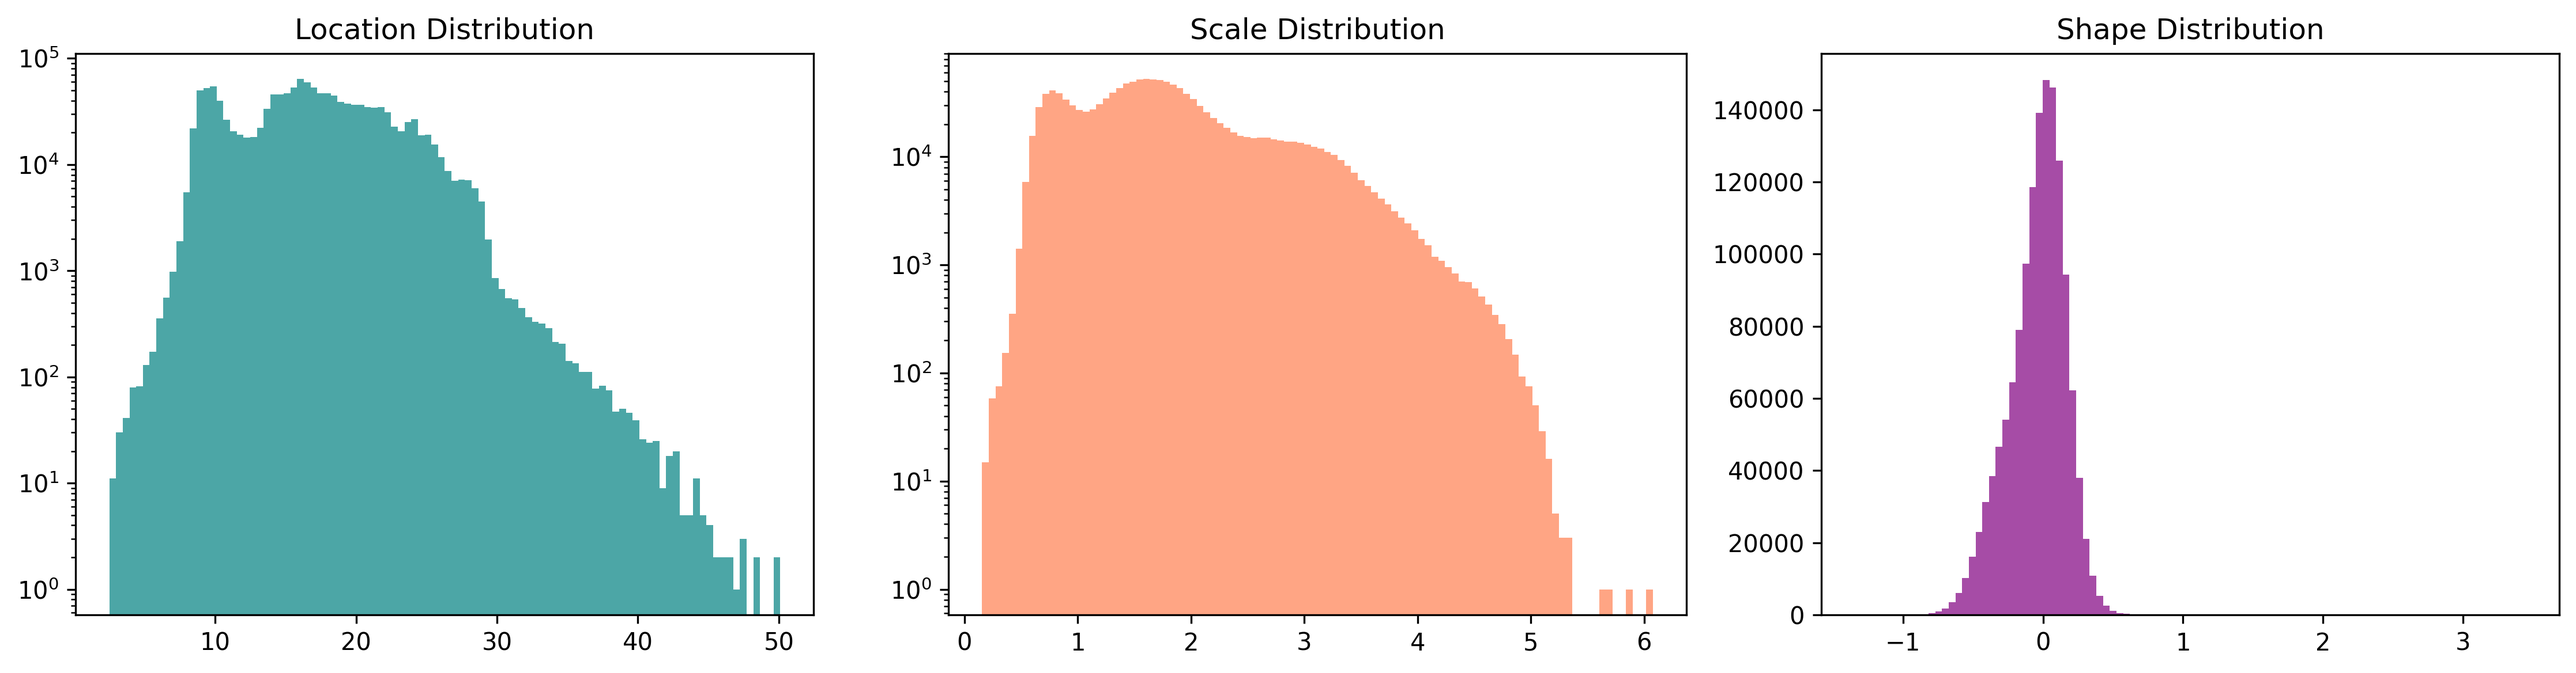
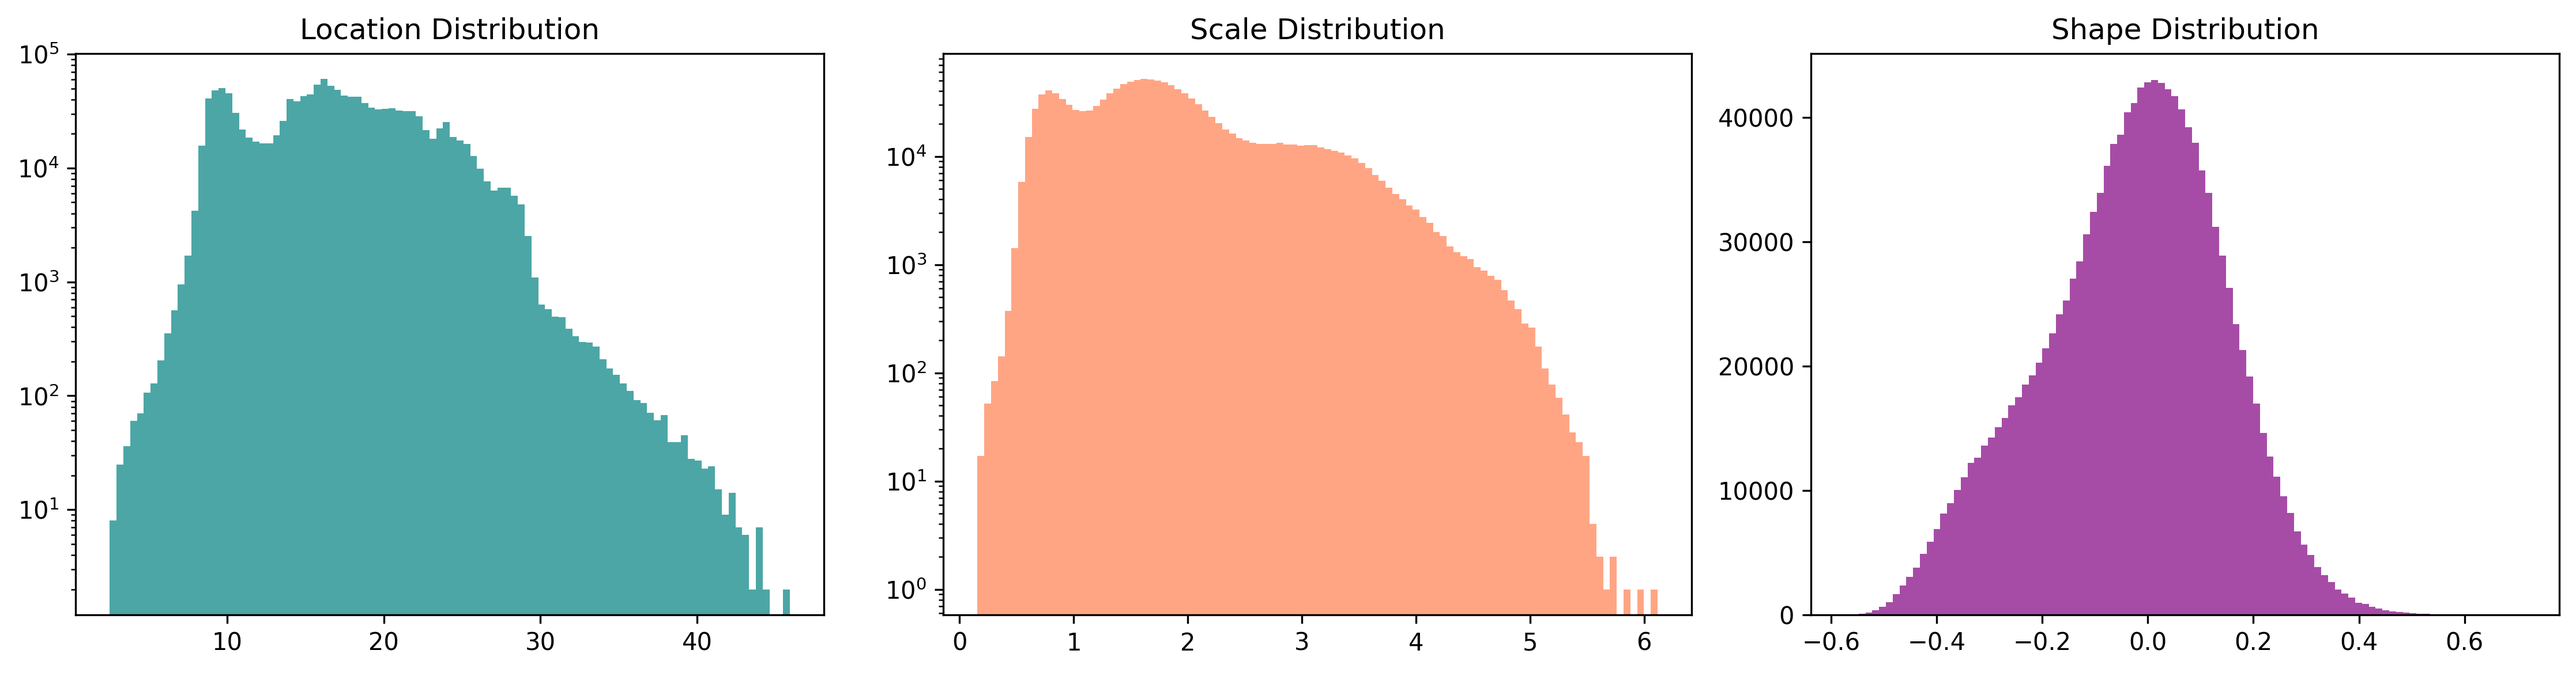
updates

diff --git a/30a_fit_gev_parameters.py b/30a_fit_gev_parameters.py
@@ -1,0 +1,277 @@
+"""
+Phase 2: Fit Generalized Extreme Value (GEV) distributions using L-Moments / Bounded MLE.
+
+This script:
+1. Loads validated annual max data from HDF5
+2. For each grid point, fits GEV distribution to 40-year time series
+3. Extracts location (μ), scale (σ), and shape (ξ) parameters natively without hardcoding limits
+4. Uses multiprocessing for efficiency (~1.4M grid points)
+5. Saves intermediate results and final consolidated parameter grids
+"""
+
+import os
+import h5py
+import numpy as np
+import netCDF4 as nc
+from scipy.stats import genextreme
+from scipy.optimize import minimize
+from multiprocessing import Pool, cpu_count
+from functools import partial
+import warnings
+from datetime import datetime
+
+warnings.filterwarnings('ignore')
+
+# Dynamic check for L-Moments library (Best practice for N=40)
+try:
+    import lmoments3 as lm
+    from lmoments3 import distr
+    HAS_LMOMENTS = True
+except ImportError:
+    HAS_LMOMENTS = False
+
+# Global variable for worker processes
+_validated_data = None
+
+def _fit_bounded_mle(valid_data):
+    """
+    Fallback: Bounded Maximum Likelihood Estimation (MLE) using SciPy.
+    Allows the shape parameter (c) to freely explore meteorologically 
+    sound ranges (-0.5 to 0.5) without artificially forcing it away from zero.
+    """
+    c_init = 0.01  # Start near zero (Gumbel-like) since wind speed often leans this way
+    loc_init = float(np.mean(valid_data))
+    scale_init = float(np.std(valid_data))
+    
+    # Bounds: c in [-0.5, 0.5] covers heavy tail to bounded tail.
+    # loc unconstrained, scale strictly positive
+    res = minimize(
+        fun=genextreme.nnlf,
+        x0=np.array([c_init, loc_init, scale_init]),
+        args=(valid_data,),
+        bounds=[(-0.5, 0.5), (None, None), (0.001, None)],
+        method='L-BFGS-B'
+    )
+    
+    if res.success:
+        return float(res.x[0]), float(res.x[1]), float(res.x[2])
+    else:
+        raise RuntimeError(f"Optimizer failed: {res.message}")
+
+def fit_gev_at_gridpoint(args):
+    """
+    Fit GEV distribution to 40-year time series at a single grid point.
+    """
+    lat_idx, lon_idx = args
+    
+    try:
+        # Extract time series for this grid point
+        time_series = _validated_data[:, lat_idx, lon_idx]
+        
+        # Remove NaN values
+        valid_data = time_series[~np.isnan(time_series)]
+        
+        if len(valid_data) < 3:
+            return {
+                'lat': lat_idx, 'lon': lon_idx,
+                'location': np.nan, 'scale': np.nan, 'shape': np.nan,
+                'converged': False,
+                'warning': f'Insufficient valid data: {len(valid_data)} points'
+            }
+        
+        try:
+            # 1. Try Method of L-Moments if available (Preferred)
+            if HAS_LMOMENTS:
+                try:
+                    res = distr.gev.lmom_fit(valid_data)
+                    shape, location, scale = res['c'], res['loc'], res['scale']
+                except Exception:
+                    # Fallback if L-moments fails on this specific data slice
+                    shape, location, scale = _fit_bounded_mle(valid_data)
+            
+            # 2. Fallback to Bounded MLE
+            else:
+                shape, location, scale = _fit_bounded_mle(valid_data)
+            
+            # 3. Verify scale parameters (Shape is allowed to be natural)
+            if scale <= 0:
+                raise ValueError(f"Invalid scale parameter: {scale}")
+            
+            return {
+                'lat': lat_idx,
+                'lon': lon_idx,
+                'location': float(location),
+                'scale': float(scale),
+                'shape': float(shape),
+                'converged': True,
+                'warning': None,
+                'n_samples': len(valid_data)
+            }
+            
+        except Exception as e:
+            return {
+                'lat': lat_idx, 'lon': lon_idx,
+                'location': np.nan, 'scale': np.nan, 'shape': np.nan,
+                'converged': False,
+                'warning': f'Fit error: {str(e)[:50]}'
+            }
+            
+    except Exception as e:
+        return {
+            'lat': lat_idx, 'lon': lon_idx,
+            'location': np.nan, 'scale': np.nan, 'shape': np.nan,
+            'converged': False,
+            'warning': f'Processing error: {str(e)[:50]}'
+        }
+
+def init_worker(validated_data):
+    """Initialize worker process with shared data."""
+    global _validated_data
+    _validated_data = validated_data
+
+def main():
+    # Paths
+    base_dir = '/Users/andrewjohnson/Documents/GitHub/CONUS404_Processing/output'
+    input_file = os.path.join(base_dir, 'validated_annual_max_data.h5')
+    output_dir = base_dir
+    output_params_file = os.path.join(output_dir, 'gev_parameters.h5')
+    
+    # Check input file
+    if not os.path.exists(input_file):
+        print(f"Error: Input file not found: {input_file}")
+        print("Please run validate_annual_max_files.py first")
+        return
+    
+    print("=" * 80)
+    print("PHASE 2: GEV PARAMETER FITTING")
+    print(f"Method: {'L-Moments (lmoments3)' if HAS_LMOMENTS else 'Bounded MLE (scipy)'}")
+    print("=" * 80)
+    
+    # Load validated data
+    print(f"\nLoading validated data from {input_file}...")
+    try:
+        with h5py.File(input_file, 'r') as f:
+            validated_data = f['spduv10max'][:]
+            num_years = f.attrs['num_years']
+            south_north = f.attrs['south_north']
+            west_east = f.attrs['west_east']
+            years = f.attrs['years'][:]
+    except Exception as e:
+        print(f"Error loading HDF5: {str(e)}")
+        return
+    
+    print(f"  Data shape: {validated_data.shape}")
+    print(f"  Years: {sorted(years)}")
+    print(f"  Grid: {south_north} × {west_east} = {south_north * west_east:,} grid points")
+    print(f"  Memory: {validated_data.nbytes / 1e9:.2f} GB")
+    
+    # Prepare grid point list
+    grid_points = [(lat, lon) for lat in range(south_north) for lon in range(west_east)]
+    total_points = len(grid_points)
+    
+    print(f"\nFitting GEV to {total_points:,} grid points...")
+    print(f"Using {cpu_count()} CPU cores")
+    
+    # Initialize parameter grids
+    location_grid = np.full((south_north, west_east), np.nan, dtype=np.float32)
+    scale_grid = np.full((south_north, west_east), np.nan, dtype=np.float32)
+    shape_grid = np.full((south_north, west_east), np.nan, dtype=np.float32)
+    converged_grid = np.zeros((south_north, west_east), dtype=np.int8)
+    warning_grid = np.empty((south_north, west_east), dtype=object)
+    
+    # Fit using multiprocessing
+    try:
+        with Pool(processes=cpu_count(), initializer=init_worker, initargs=(validated_data,)) as pool:
+            results = pool.imap_unordered(fit_gev_at_gridpoint, grid_points, chunksize=100)
+            
+            converged_count = 0
+            failed_count = 0
+            
+            for i, result in enumerate(results):
+                lat, lon = result['lat'], result['lon']
+                location_grid[lat, lon] = result['location']
+                scale_grid[lat, lon] = result['scale']
+                shape_grid[lat, lon] = result['shape']
+                converged_grid[lat, lon] = 1 if result['converged'] else 0
+                warning_grid[lat, lon] = result.get('warning', '')
+                
+                if result['converged']:
+                    converged_count += 1
+                else:
+                    failed_count += 1
+                
+                # Progress update
+                if (i + 1) % 50000 == 0:
+                    pct = 100 * (i + 1) / total_points
+                    print(f"  Progress: {i + 1:,} / {total_points:,} ({pct:.1f}%) | Converged: {converged_count:,}")
+    
+    except KeyboardInterrupt:
+        print("\nFitting interrupted by user")
+        return
+    except Exception as e:
+        print(f"Error during fitting: {str(e)}")
+        return
+    
+    # Summary
+    print("\n" + "=" * 80)
+    print("FIT SUMMARY")
+    print("=" * 80)
+    print(f"Total grid points: {total_points:,}")
+    print(f"Converged fits: {converged_count:,} ({100*converged_count/total_points:.2f}%)")
+    print(f"Failed fits: {failed_count:,} ({100*failed_count/total_points:.2f}%)")
+    
+    # Parameter statistics
+    valid_locs = location_grid[~np.isnan(location_grid)]
+    valid_scales = scale_grid[~np.isnan(scale_grid)]
+    valid_shapes = shape_grid[~np.isnan(shape_grid)]
+    
+    if len(valid_locs) > 0:
+        print(f"\nLocation (μ) statistics:")
+        print(f"  Min: {np.min(valid_locs):.4f}")
+        print(f"  Max: {np.max(valid_locs):.4f}")
+        print(f"  Mean: {np.mean(valid_locs):.4f}")
+        print(f"  Std: {np.std(valid_locs):.4f}")
+        
+        print(f"\nScale (σ) statistics:")
+        print(f"  Min: {np.min(valid_scales):.4f}")
+        print(f"  Max: {np.max(valid_scales):.4f}")
+        print(f"  Mean: {np.mean(valid_scales):.4f}")
+        print(f"  Std: {np.std(valid_scales):.4f}")
+        
+        print(f"\nShape (SciPy c) statistics:")
+        print(f"  Min: {np.min(valid_shapes):.4f}")
+        print(f"  Max: {np.max(valid_shapes):.4f}")
+        print(f"  Mean: {np.mean(valid_shapes):.4f}")
+        print(f"  Std: {np.std(valid_shapes):.4f}")
+    
+    # Save parameters to HDF5
+    print(f"\nSaving parameters to {output_params_file}...")
+    try:
+        with h5py.File(output_params_file, 'w') as f:
+            f.create_dataset('location', data=location_grid, compression='gzip', compression_opts=4)
+            f.create_dataset('scale', data=scale_grid, compression='gzip', compression_opts=4)
+            f.create_dataset('shape', data=shape_grid, compression='gzip', compression_opts=4)
+            f.create_dataset('converged', data=converged_grid, compression='gzip', compression_opts=4)
+            
+            # Metadata
+            f.attrs['south_north'] = south_north
+            f.attrs['west_east'] = west_east
+            f.attrs['num_years'] = num_years
+            f.attrs['fit_date'] = datetime.now().isoformat()
+            f.attrs['fit_method'] = 'L-Moments / Natural Bounded MLE'
+            f.attrs['converged_count'] = converged_count
+            f.attrs['failed_count'] = failed_count
+        
+        print(f"✓ Parameters saved to: {output_params_file}")
+        
+    except Exception as e:
+        print(f"✗ Error saving parameters: {str(e)}")
+        return
+    
+    # Summary
+    print("\n" + "=" * 80)
+    print("FITTING COMPLETE")
+    print("=" * 80)
+
+if __name__ == '__main__':
+    main()

diff --git a/40_calculate_return_periods.py b/40_calculate_return_periods.py
@@ -48,14 +48,8 @@ def gev_return_level(return_period, location, scale, shape):
 def gev_return_level_ci(return_period, location, scale, shape, data_points=40):
     """
     Calculate confidence intervals for GEV return level using delta method.
-    
-    Args:
-        return_period: Return period in years
-        location, scale, shape: GEV parameters
-        data_points: Number of data points used for fitting (for SE estimation)
-    
-    Returns:
-        (lower_ci, upper_ci) at 95% confidence level
+    Includes a L'Hôpital limit switch for the Gumbel domain (ξ ≈ 0) to prevent
+    variance explosion.
     """
     # Calculate return level
     rp_level = gev_return_level(return_period, location, scale, shape)
@@ -64,21 +58,27 @@ def gev_return_level_ci(return_period, location, scale, shape, data_points=40):
         return np.nan, np.nan
     
     try:
-        # For delta method, estimate standard error based on:
-        # - Return period (longer periods → wider CI)
-        # - Sample size (fewer data points → wider CI)
-        # - Shape parameter (accounts for tail behavior)
-        
-        # Approximate SE based on empirical factors
-        # This is a simplified approach; full Bayesian/profile likelihood would be more accurate
+        # p is the non-exceedance probability
         p = 1.0 - 1.0 / return_period
-        log_log_p = np.log(-np.log(p))
         
-        # Variance approximation (simplified)
-        if abs(shape) > 1e-6:
-            var_factor = (1.0 + shape * log_log_p) ** 2 / (shape ** 2)
+        # y is the standard Gumbel reduced variate equivalent
+        y = -np.log(p)
+        log_log_p = np.log(y) 
+        
+        # Delta Method gradient approximations (derivatives of the return level formula)
+        if abs(shape) > 1e-5:
+            # Standard GEV gradients for scale and shape
+            d_scale = (1.0 - y**shape) / shape
+            d_shape = - (1.0 - y**shape) / (shape**2) + (y**shape) * log_log_p / shape
         else:
-            var_factor = 1.0
+            # Gumbel limit (ξ -> 0) derived via L'Hôpital's rule
+            # Bypasses the division by shape**2 entirely
+            d_scale = -log_log_p
+            d_shape = -0.5 * (log_log_p ** 2)
+            
+        # Combine the gradients into a structural variance factor
+        # Using the magnitude of the gradient vector to scale the standard error
+        var_factor = np.sqrt(d_scale**2 + d_shape**2)
         
         # Increase uncertainty for long return periods
         rp_factor = np.log(return_period + 1)
